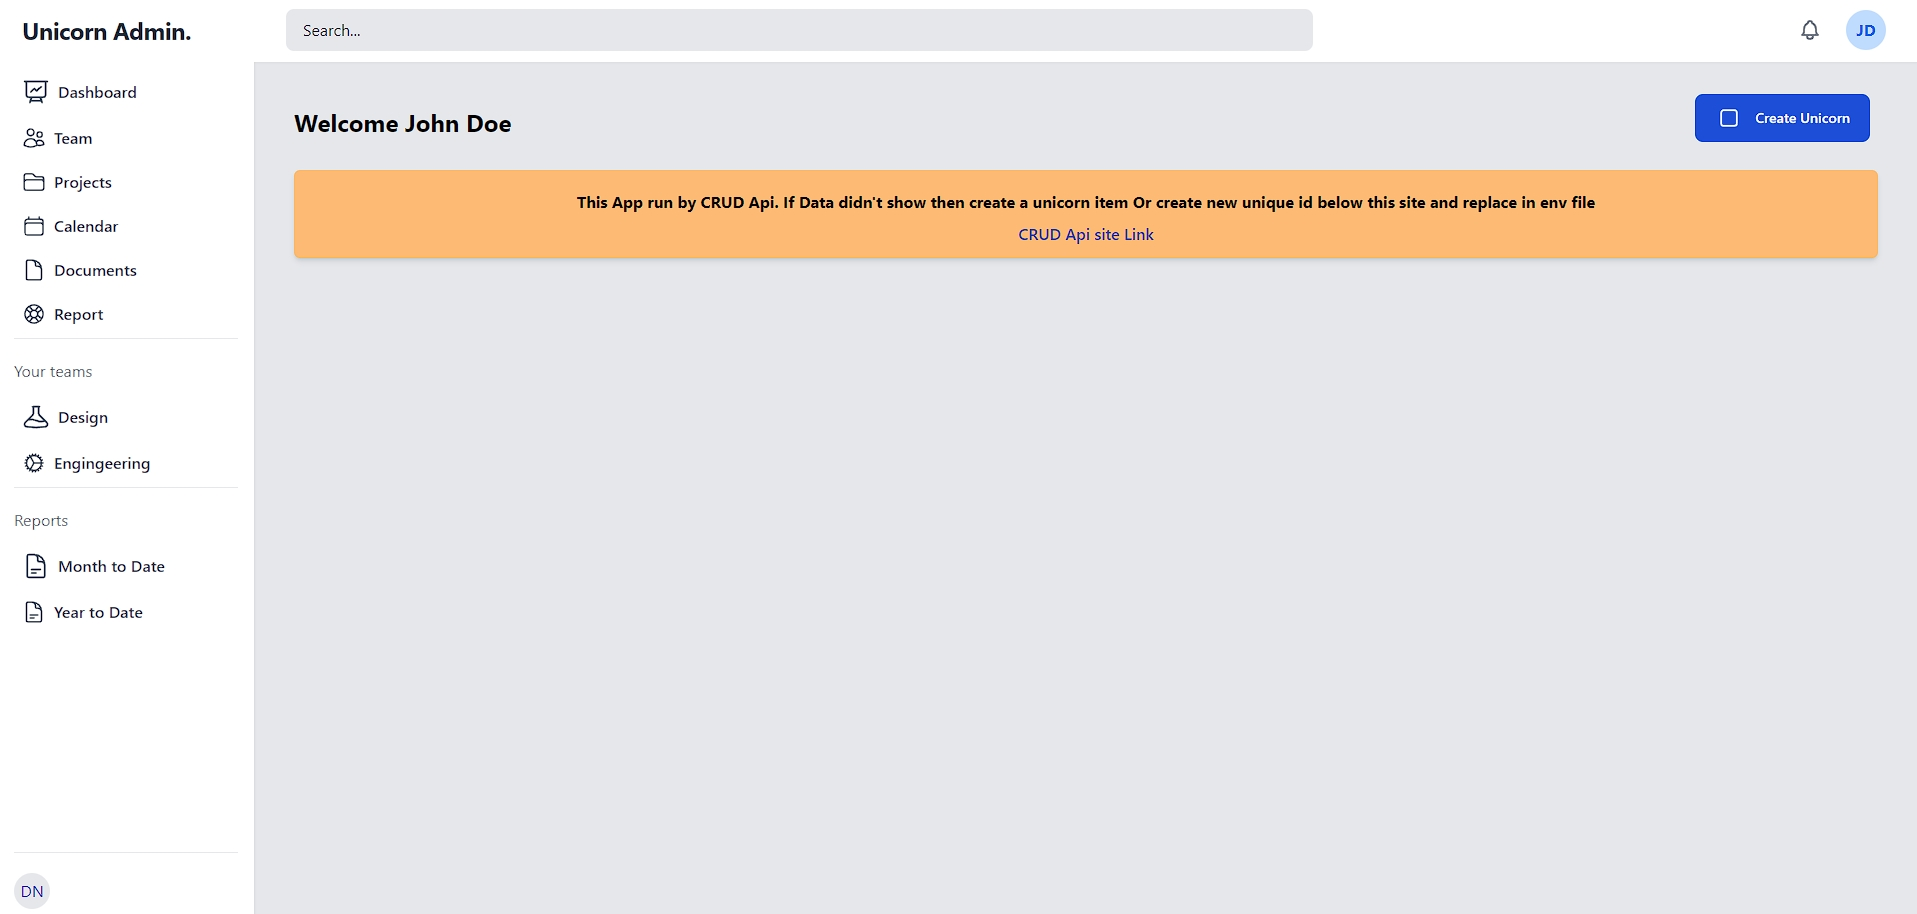
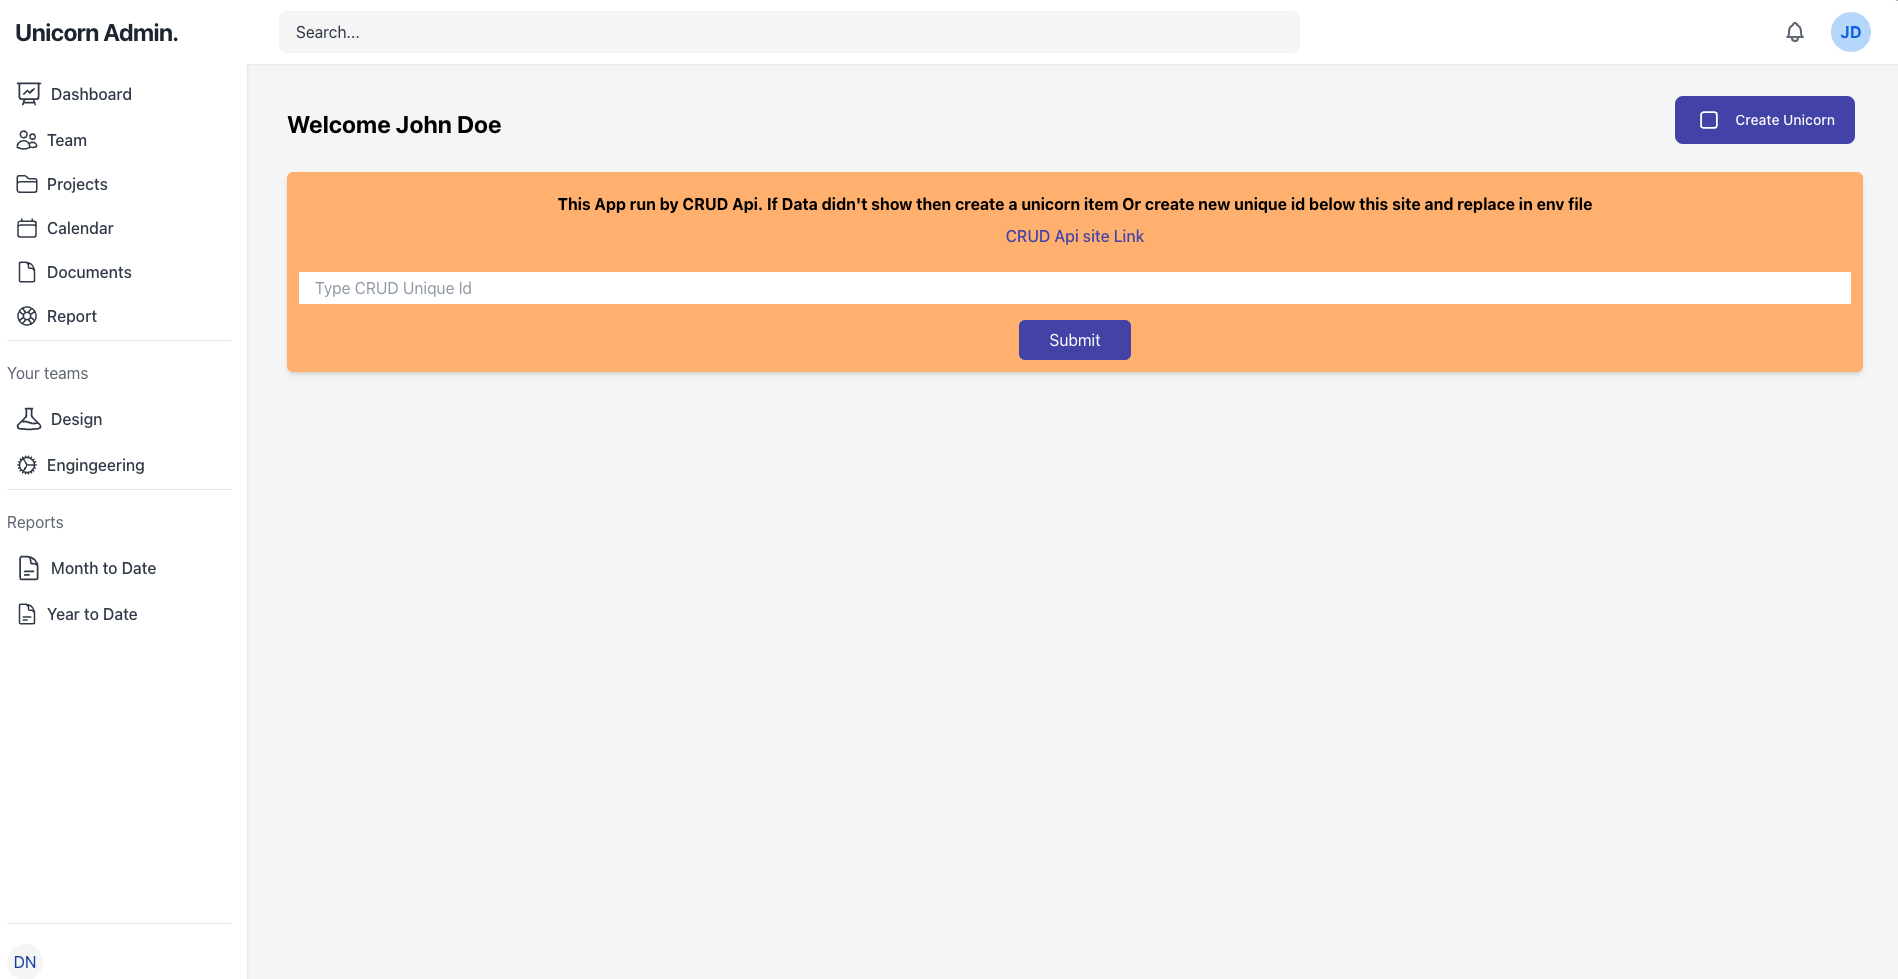
Some Improvement - Mobile responsive optimize - Storing Api key directlyin the .env from dashboard

diff --git a/src/components/dashboard/DoctorCardInfo.vue b/src/components/dashboard/DoctorCardInfo.vue
@@ -1,69 +1,85 @@
 <template>
-    <div class="bg-white shadow-sm rounded-lg overflow-hidden border-l-[5px]"
+    <div class="bg-white shadow-sm rounded-lg overflow-hidden border-l-[5px] p-4"
         :class="getRandomBorderColor(data.colour)">
-        <div class="flex items-center justify-between px-4">
-            <div
-                class="p-4 flex w-4/5 flex-col border-r-2 mr-2 lg:border-r-0 lg:mr-0 lg:flex-wrap lg:flex-row space-y-3 lg:items-center lg:space-x-6">
-                <div class="w-[4%]">
-                    <p class="text-sm text-gray-500 mt-2">No</p>
-                    <p class="font-semibold text-lg">{{ serialNo }}</p>
+        <!-- Header Section -->
+        <div
+            class="flex flex-col lg:flex-row justify-between items-start lg:items-center space-y-4 lg:space-y-0 lg:space-x-4">
+            <!-- Information Columns -->
+            <div class="flex flex-col lg:flex-row space-y-4 lg:space-y-0 lg:space-x-6 w-full lg:w-[80%]">
+                
+                <div class="flex justify-between lg:space-x-6 w-full lg:w-[40%]">
+                    <div class="w-full lg:w-auto">
+                        <p class="text-sm text-gray-500">No</p>
+                        <p class="font-semibold text-lg">{{ serialNo }}</p>
+                    </div>
+
+                    <div class="w-full lg:w-[80%]">
+                        <p class="text-sm text-gray-500">Doctor Name</p>
+                        <p class="font-semibold text-lg">{{ data.name }}</p>
+                    </div>
                 </div>
-                <div class="w-[25%]">
-                    <p class="text-sm text-gray-500 ">Doctor Name</p>
-                    <p class="font-semibold text-lg">{{ data.name }}</p>
+
+                <div class="flex justify-between w-full lg:w-auto lg:space-x-6">
+                    <div class="w-full lg:w-auto">
+                        <p class="text-sm text-gray-500">Age</p>
+                        <p class="text-lg">{{ data.age }}</p>
+                    </div>
+
+                    <div class="w-full lg:w-auto">
+                        <p class="text-sm text-gray-500">Color</p>
+                        <p class="text-lg">{{ data.colour }}</p>
+                    </div>
                 </div>
-                <div class="w-[4%]">
-                    <p class="text-sm text-gray-500">Age</p>
-                    <p class="text-lg">{{ data.age }}</p>
-                </div>
-                <div class="w-[5%]">
-                    <p class="text-sm text-gray-500">Color</p>
-                    <p class="text-lg">{{ data.colour }}</p>
-                </div>
-                <div class="w-[14%]">
+
+                <div class="w-full border-b-2 pb-2 lg:border-none lg:pb-0 lg:w-1/4">
                     <p class="text-sm text-gray-500">Status</p>
                     <span
-                    :class="`inline-flex items-center px-3 py-1.5 rounded-xl text-sm font-medium ${getStatusClass(data.age)}`">
+                        :class="`inline-flex items-center px-3 py-1.5 rounded-xl text-sm font-medium ${getStatusClass(data.age)}`">
                         {{ unicornStatus(data) }}
                     </span>
                 </div>
             </div>
 
-            <div class="ml-auto  flex flex-col lg:flex-row space-y-5 lg:space-y-0 lg:space-x-2">
-                <button class="border-2 hover:bg-blue-100 px-3 py-1 rounded-lg  font-medium w-16"
+            <!-- Actions -->
+            <div class="flex justify-center w-full lg:w-auto space-x-2">
+                <button class="border-2 hover:bg-blue-100 px-3 py-1 rounded-lg font-medium w-16"
                     @click="openUnicornEditModal(data)">
                     Edit
                 </button>
                 <button
-                    class="text-white bg-red-500 hover:bg-red-600 px-3 py-1 rounded-lg text-sm font-medium w-16 flex items-center justify-center">
-                    <TrashIcon class="w-5 h-5" @click="deleteUnicornItem(data)" />
+                    class="text-white bg-red-500 hover:bg-red-600 px-3 py-1 rounded-lg text-sm font-medium w-16 flex items-center justify-center"
+                    @click="deleteUnicornItem(data)">
+                    <TrashIcon class="w-5 h-5" />
                 </button>
             </div>
         </div>
 
-        <!-- Details card -->
-        <hr>
+        <!-- Details Section -->
+        <hr class="my-4" />
         <div class="border-2 rounded-md m-2" v-if="detailStatus">
-            <div class="flex flex-col justify-center items-center bg-[#4E46B41F]  rounded-md m-2 p-5">
+            <div class="flex flex-col justify-center items-center bg-[#4E46B41F] rounded-md m-2 p-5">
                 <EngingeeringIcon class="w-8 stroke-[#8A82FB] mb-2" />
-                <p class="text-center text-[#8A82FB]">The body copy explains the empty state. <br> The icon relates to
-                    the situation</p>
+                <p class="text-center text-[#8A82FB]">
+                    The body copy explains the empty state. <br />
+                    The icon relates to the situation
+                </p>
             </div>
         </div>
-        <hr class="px-4">
-        <!-- Details Toggle -->
-        <div class=" px-4 py-2 flex justify-end items-center">
-            <span class="font-medium cursor-pointer" @click="toggleDetailStatus">Show details</span>
+
+        <!-- Toggle Details -->
+        <div class="px-4 py-2 flex justify-between items-center">
+            <span class="font-medium cursor-pointer" @click="toggleDetailStatus">
+                Show details
+            </span>
             <ChevronDownIcon class="w-6 h-6 border-2 rounded-full p-1 ml-3 cursor-pointer" @click="toggleDetailStatus"
                 v-if="!detailStatus" />
             <ChevronUpIcon class="w-6 h-6 border-2 rounded-full p-1 ml-3 cursor-pointer" @click="toggleDetailStatus"
                 v-if="detailStatus" />
         </div>
 
-        <!-- Modals -->
+        <!-- Edit Modal -->
         <UnicornEditModal :show-modal="showUnicornEditModal" :singleUnicornData="data"
             @close-modal="closeUnicornEditModal()" />
-
     </div>
 </template>
 

diff --git a/src/stores/UnicornStore.js b/src/stores/UnicornStore.js
@@ -11,6 +11,7 @@ export const useUnicornStore = defineStore('UnicornStore', {
     toastMessage: {},
     currentPage: 1,
     itemsPerPage: 5,
+    crudUniqueId: localStorage.getItem('VITE_CRUD_UNIQUE_ID') || import.meta.env.VITE_CRUD_UNIQUE_ID,  
   }),
 
   getters: {
@@ -80,8 +81,8 @@ export const useUnicornStore = defineStore('UnicornStore', {
     async getAllUnicornData() {
       this.loading = true;
       try {
-        let crudUniqueId = import.meta.env.VITE_CRUD_UNIQUE_ID;
-        const result = await axios.get(`${crudUniqueId}/unicorns`);
+        //let crudUniqueId = import.meta.env.VITE_CRUD_UNIQUE_ID;
+        const result = await axios.get(`${this.crudUniqueId}/unicorns`);
         this.unicornData = result.data;
         this.temUniornData = result.data;
         console.log('axior data', result);
@@ -97,9 +98,9 @@ export const useUnicornStore = defineStore('UnicornStore', {
       this.loading = true;
       try {
         console.log('createUnicorn', data);
-        let crudUniqueId = import.meta.env.VITE_CRUD_UNIQUE_ID;
+        //let crudUniqueId = import.meta.env.VITE_CRUD_UNIQUE_ID;
         //await this.sleep(1000); //For testing Loader
-        await axios.post(`${crudUniqueId}/unicorns`, data);
+        await axios.post(`${this.crudUniqueId}/unicorns`, data);
         this.toastMessage = {
           type: 'success',
           message: "New Unicorn created successfully"
@@ -121,14 +122,14 @@ export const useUnicornStore = defineStore('UnicornStore', {
       console.log('editUnicornItem', data)
       try {
 
-        let crudUniqueId = import.meta.env.VITE_CRUD_UNIQUE_ID;
+        //let crudUniqueId = import.meta.env.VITE_CRUD_UNIQUE_ID;
         //await this.sleep(1000); //For testing Loader
         let payload = {
           age: data.age,
           name: data.name,
           colour: data.colour
         }
-        const result = await axios.put(`${crudUniqueId}/unicorns/${data._id}`, payload);
+        const result = await axios.put(`${this.crudUniqueId}/unicorns/${data._id}`, payload);
         this.toastMessage = {
           type: 'success',
           message: "Unicorn Item Update successfully"
@@ -146,8 +147,8 @@ export const useUnicornStore = defineStore('UnicornStore', {
       this.loading = true;
       console.log('editUnicornItem', data)
       try {
-        let crudUniqueId = import.meta.env.VITE_CRUD_UNIQUE_ID;
-        await axios.delete(`${crudUniqueId}/unicorns/${data._id}`);
+        //let crudUniqueId = import.meta.env.VITE_CRUD_UNIQUE_ID;
+        await axios.delete(`${this.crudUniqueId}/unicorns/${data._id}`);
         this.toastMessage = {
           type: 'error',
           message: `${data.name} deleted from the database`
@@ -160,6 +161,10 @@ export const useUnicornStore = defineStore('UnicornStore', {
       finally {
         this.loading = false;
       }
+    },
+    async updateUniqueId(id){
+      console.log('unique id', id)
+      this.crudUniqueId = id;
     }
 
 

diff --git a/src/views/DashBoard.vue b/src/views/DashBoard.vue
@@ -41,6 +41,15 @@
                     item Or create new unique id below this site and replace in env file </p>
                 <a href="https://crudcrud.com/" target="_blank" class="text-center text-[#4E46B4] font-medium">CRUD Api
                     site Link</a>
+
+                <br>
+                <div class="flex flex-col space-y-4">
+                    <input class="h-8 px-4" type="text" placeholder="Type CRUD Unique Id" v-model="crudUniqueId">
+                    <div class="flex justify-center">
+                        <button class="bg-[#4E46B4] w-28 text-white p-2 rounded-md" @click="submitCrudId">Submit</button>
+                    </div>
+                </div>
+
             </div>
         </div>
         <!-- End Doctor card Info -->
@@ -76,8 +85,9 @@ export default {
 
     data() {
         return {
+            crudUniqueId: '',
             showUnicornCreateModal: false,
-            unicornStore: useUnicornStore()
+            unicornStore: useUnicornStore(),
 
         }
     },
@@ -98,6 +108,25 @@ export default {
             const option = event.target.value;
             console.log('sortUnicorns', option)
             this.unicornStore.sortUnicorns(option);
+        },
+        async submitCrudId() {
+            if (this.crudUniqueId.trim() === '') {
+                alert('Please enter a valid CRUD unique ID.');
+                return;
+            }
+
+            // Save the ID in localStorage
+            localStorage.setItem('VITE_CRUD_UNIQUE_ID', this.crudUniqueId);
+            alert('CRUD Unique ID saved successfully!');
+            let Id = this.crudUniqueId
+            await this.unicornStore.updateUniqueId(Id)
+            let data ={
+                "age": "30",
+                "name": "jone Doe",
+                "colour" : "blue"
+            }
+            await this.unicornStore.createUnicorn(data);
+            await this.unicornStore.getAllUnicornData();
         },
 
     },

diff --git a/README.md b/README.md
@@ -97,6 +97,7 @@ The structure reflects the following principles:
     - When delete item then show alert.
     - when create or update any item then show success message.
     - The card borders in the UI dynamically change color based on the color of the displayed item
+    - Storing an API key directly in the .env file from the dashboard
 
 ## Live Demo
 You can view the live version of the Unicorn App [here](https://unicorn-dashboard-flame.vercel.app/).
